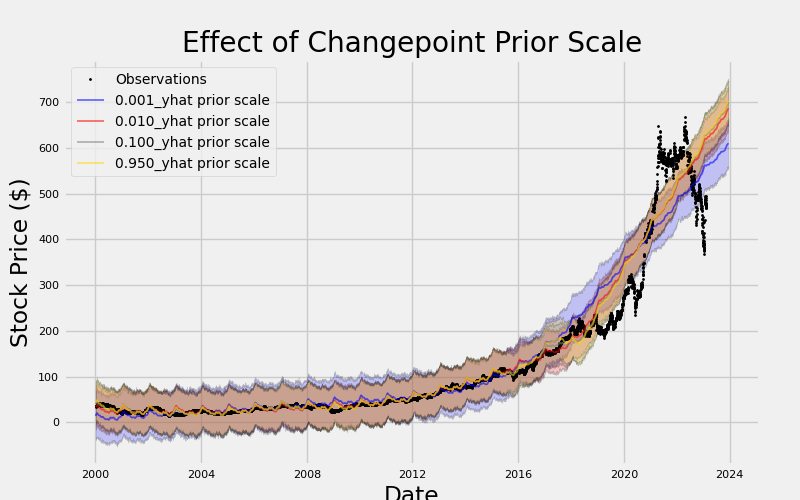
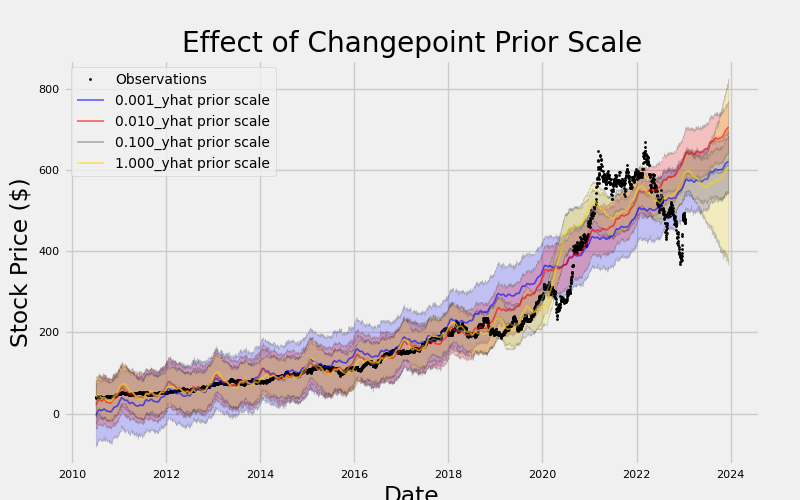
v0.75

diff --git a/02_web_system/app.py b/02_web_system/app.py
@@ -4,19 +4,24 @@
 ===================================
 """
 # Basic
-from prophet import Prophet
+from bs4 import BeautifulSoup
+import requests
+from pytrends.request import TrendReq
 import pandas_datareader as pdr
-from matplotlib import pyplot as plt
-import matplotlib
-import streamlit as st
-import pandas as pd
+from prophet import Prophet
 import numpy as np
+import pandas as pd
+import altair as alt
+import streamlit as st
+import matplotlib
+from matplotlib import pyplot as plt
 from datetime import datetime as dtt
+import datetime
 import time
 import warnings  # remove warnings
 warnings.filterwarnings('ignore')
 
-# Modules
+pytrends = TrendReq(hl='en-US', tz=360)
 
 # Plot
 # from matplotlib.ticker import FuncFormatter
@@ -27,16 +32,9 @@ warnings.filterwarnings('ignore')
 # from modules.stocker import Stocker
 # from stocker import Stocker
 
-# get stock data
-
-# stock forecast model
-
-
 # plot
 # from streamlit_echarts import st_echarts
 # import plotly.figure_factory as ff
-
-st.set_page_config(layout="wide")
 
 ### Data Import ###
 com_no = ''
@@ -44,21 +42,11 @@ startTime = ''
 endTime = ''
 filename = '2330_20000101_20221218.csv'
 
-# @st.cache
 
-
+@st.cache
 def get_obs_data():
     """note"""
     tmp_df_database = pd.read_csv(f"./01_obs/{filename}")
-
-    return tmp_df_database
-
-# @st.cache
-
-
-def get_ft_data():
-    """note"""
-    tmp_df_database = pd.read_csv(f"./02_ft/{filename}")
 
     return tmp_df_database
 
@@ -120,6 +108,7 @@ def reset_plot():
     matplotlib.rcParams['ytick.labelsize'] = 8
     matplotlib.rcParams['axes.titlesize'] = 14
     matplotlib.rcParams['text.color'] = 'k'
+
 
 def remove_weekends(dataframe):
     """
@@ -191,8 +180,10 @@ def changepoint_prior_analysis(stock, changepoint_priors=[0.01, 0.05, 0.1, 0.2],
         predictions['%.3f_yhat' % prior] = future['yhat']
 
     predictions['obs'] = train['y']
-    st.header('prediction in 4 patterns')
-    st.dataframe(predictions)
+
+    # Check the data
+    # st.header('prediction in 4 patterns')
+    # st.dataframe(predictions)
 
     # Remove the weekends
     # predictions = remove_weekends(predictions)
@@ -227,6 +218,9 @@ def changepoint_prior_analysis(stock, changepoint_priors=[0.01, 0.05, 0.1, 0.2],
         ax.fill_between(arrX, arrY_upper, arrY_lower, facecolor=color_dict[prior],
                         alpha=0.2, edgecolor='k', linewidth=0.3)
 
+    #
+    ax.set_ylim(-50, 1200)
+
     # Plot labels
     plt.legend(loc=2, prop={'size': 10})
     plt.xlabel('Date')
@@ -235,10 +229,10 @@ def changepoint_prior_analysis(stock, changepoint_priors=[0.01, 0.05, 0.1, 0.2],
 
     # plt.show()
 
-    st.header("Changepoint_prior_analysis")
-
-    st.pyplot(fig)
-    fig.savefig(f"./03_png/test.png")
+    # st.header("Changepoint_prior_analysis")
+    # fig.savefig(f"./03_png/test.png")
+    # st.pyplot(fig)
+    return fig
 
 
 def add_sidebar():
@@ -246,50 +240,119 @@ def add_sidebar():
     st.sidebar.write(f"TEST PAGE")
 
 
+def get_google_trends(start, end):
+    """note"""
+    # scrawing
+    # url = f'https://trends.google.com/trends/explore?date={start}%20{end}'
+
+    # headers = requests.utils.default_headers()
+    # headers.update({
+    #     'accept': 'application/json',
+    #     'cache-control': 'no-cache',
+    #     'sec-ch-ua-platform': "Windows",
+    #     'User-Agent': 'Mozilla/5.0 (Windows NT 10.0; Win64; x64) AppleWebKit/537.36 (KHTML, like Gecko) Chrome/108.0.0.0 Safari/537.36',
+    # })
+    # html_text = requests.get(url, headers=headers).text
+    # soup = BeautifulSoup(html_text, 'html.parser')
+    # st.write(html_text)
+
+    # data = soup.findAll(
+    #     'div', {'class': 'progress-label-wrapper'})
+
+    # pytrends
+
+
+    st.write(data)
+
+def check_error():
+    """
+    1.
+    2.
+    3.
+    4. RMSE
+    """
+
+def check_Spearman():
+    """note"""
+
 if __name__ == '__main__':
 
     try:
         print('-'*80)
         print('[INFO] START')
 
+        st.set_page_config(layout="wide")
         st.title('Stock Analytic')
         # add_sidebar()
 
-        # init setting
-        com_no = '2330'
-        startTime = '2014-07-01'
-        endTime = '2018-08-01'
-
         # stock
+        st.header("1. Get Data")
 
-        st.header("1. read data")
-        cols1 = st.columns(2)
         # 1. from CSV
-        stock = pd.read_csv(f'./01_obs/{filename}')
-        # stock['Date'] = pd.to_datetime(stock['Date'])
-        stock_ana = stock.copy(deep=True)
-        stock_ana.set_index('Date', inplace=True)
+        stock = get_obs_data()
 
-        # 2. from DataReader
+        # 2. read from DataReader
         # stock = pdr.DataReader(
         #         f'{com_no}.TW', 'yahoo', start=startTime, end='today')
 
-        with cols1[0]:
-            st.header("stock_ana")
-            st.dataframe(stock_ana)
+        # 3. scrawing form yahoo
+        # reference to script
 
-        # # st.dataframe(stock)
-        stock['Date'] = pd.to_datetime(stock['Date'])
-        new_df = pd.DataFrame(stock_ana['Adj Close']).reset_index().rename(
-            columns={'Date': 'ds', 'Adj Close': 'y'})
+        # All data
+        st.header("stock")
+        st.dataframe(stock)
 
-        with cols1[1]:
-            st.header("new_df")
-            st.dataframe(new_df)
+        # init setting
+        # Stock number
+        com_no = '2330'
 
-        # stock_analytic
-        changepoint_prior_analysis(new_df, changepoint_priors=[
-                                   0.001, 0.01, 0.1, 0.95])
+        # analysis period set
+        dataset = []
+        # dataset = [{'start': '2014-07-01', 'end': '2018-07-01'},
+        #            {'start': '2018-07-01', 'end': '2022-12-16'},
+        #            {'start': '2000-07-01', 'end': '2022-12-16'}]
+
+        if dataset:
+            cols = st.columns(len(dataset))
+            for i in range(len(dataset)):
+                startTime = dataset[i]['start']
+                endTime = dataset[i]['end']
+
+                # filter data between start and end
+                stock_ana = stock[(stock['Date'] > startTime)
+                                  & (stock['Date'] < endTime)]
+                stock_ana.set_index('Date', inplace=True)
+
+                # convert col names
+                new_df = pd.DataFrame(stock_ana['Adj Close']).reset_index().rename(
+                    columns={'Date': 'ds', 'Adj Close': 'y'})
+
+                # stock_analytic
+                fig = changepoint_prior_analysis(new_df, changepoint_priors=[
+                    0.001, 0.01, 0.1, 1.000])
+
+                with cols[i]:
+                    st.header(f'{startTime} - {endTime}')
+                    st.pyplot(fig)
+
+        # Check data with event
+        st.header(f'{startTime} - {endTime}')
+        chart_data = stock[(stock['Date'] > '2000-07-01')
+                           & (stock['Date'] < '2022-12-16')]
+        chart_data = pd.concat(
+            [chart_data['Date'], chart_data['Adj Close']], axis=1)
+        chart_data.set_index('Date', inplace=True)
+
+        st.line_chart(chart_data)
+
+        # check keyword from google trends
+        cols2 = st.columns(2)
+        start = st.text_input('Start Date(yyyy-mm-dd)', '')
+        end = st.text_input('End Date(yyyy-mm-dd)', '')
+
+        if not end > start:
+            st.stop()
+        get_google_trends(start, end)
 
     except Exception as err:
         print(f"[ERROR] {err}")
